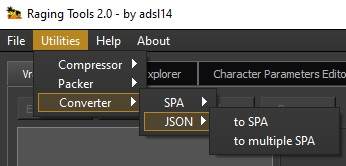
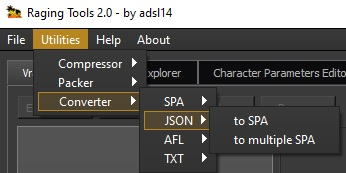
Added a new utility to convert AFL to TXT and vice-versa

diff --git a/Raging_Tools.py b/Raging_Tools.py
@@ -22,7 +22,7 @@ from lib.gsc_explorer import GSCEF
 from lib.gsc_explorer.GSCEV import GSCEV
 from lib.gsc_explorer.functions.signal_methods import store_parameters_gsc_explorer
 from lib.packages import os, rmtree, QFileDialog, QMessageBox, stat, shutil, datetime, natsorted, webbrowser
-from lib.functions import del_rw, read_spa_file, write_json_bone_file, read_json_bone_file, write_spa_file, show_progress_value, compare_version
+from lib.functions import del_rw, read_spa_file, write_json_bone_file, read_json_bone_file, write_spa_file, show_progress_value, compare_version, convert_afl_to_txt_file, convert_txt_to_afl_file
 # vram explorer
 from lib.vram_explorer.VEV import VEV
 from lib.vram_explorer import VEF
@@ -115,6 +115,34 @@ class WorkerMainWindow(QObject):
         # Finish the thread
         self.finished.emit()
 
+    def convert_AFL_to_TXT(self):
+
+        # Show text
+        self.progressText.emit("Converting " + os.path.basename(self.path_file))
+
+        # Create the new output
+        output_path = os.path.join(os.path.dirname(self.path_output_file), os.path.basename(self.path_file).split(".")[0] + "." + "txt")
+
+        # Read afl and write each entry in the txt file
+        convert_afl_to_txt_file(self, self.path_file, output_path, self.end_progress)
+
+        # Finish the thread
+        self.finished.emit()
+
+    def convert_TXT_to_AFL(self):
+
+        # Show text
+        self.progressText.emit("Converting " + os.path.basename(self.path_file))
+
+        # Create the new output
+        output_path = os.path.join(os.path.dirname(self.path_output_file), os.path.basename(self.path_file).split(".")[0] + "." + "afl")
+
+        # Read afl and write each entry in the txt file
+        convert_txt_to_afl_file(self, self.path_file, output_path, self.end_progress)
+
+        # Finish the thread
+        self.finished.emit()
+
     def convert_multiple_SPA_to_multiple_JSON(self):
 
         path_files = os.listdir(self.folder_path)
@@ -138,6 +166,32 @@ class WorkerMainWindow(QObject):
             self.path_file = os.path.join(self.folder_path, path_files[i])
             self.path_output_file = os.path.join(self.folder_output_path, path_files[i])
             self.convert_JSON_to_SPA()
+
+        self.finished.emit()
+
+    def convert_multiple_AFL_to_multiple_TXT(self):
+
+        path_files = os.listdir(self.folder_path)
+        total_files = len(path_files)
+        sub_step_progress = self.end_progress / total_files
+        self.end_progress = sub_step_progress
+        for i in range(0, total_files):
+            self.path_file = os.path.join(self.folder_path, path_files[i])
+            self.path_output_file = os.path.join(self.folder_output_path, path_files[i])
+            self.convert_AFL_to_TXT()
+
+        self.finished.emit()
+
+    def convert_multiple_TXT_to_multiple_AFL(self):
+
+        path_files = os.listdir(self.folder_path)
+        total_files = len(path_files)
+        sub_step_progress = self.end_progress / total_files
+        self.end_progress = sub_step_progress
+        for i in range(0, total_files):
+            self.path_file = os.path.join(self.folder_path, path_files[i])
+            self.path_output_file = os.path.join(self.folder_output_path, path_files[i])
+            self.convert_TXT_to_AFL()
 
         self.finished.emit()
 
@@ -312,8 +366,12 @@ class MainWindow(QtWidgets.QMainWindow, Ui_MainWindow):
         # Converter
         self.actionto_JSON.triggered.connect(self.action_SPA_to_JSON_logic)
         self.actionto_SPA.triggered.connect(self.action_JSON_to_SPA_logic)
+        self.actionto_TXT.triggered.connect(self.action_AFL_to_TXT_logic)
+        self.actionto_AFL.triggered.connect(self.action_TXT_to_AFL_logic)
         self.actionto_multiple_JSON.triggered.connect(self.action_multiple_SPA_to_multiple_JSON_logic)
         self.actionto_multiple_SPA.triggered.connect(self.action_multiple_JSON_to_multiple_SPA_logic)
+        self.actionto_multiple_TXT.triggered.connect(self.action_multiple_AFL_to_multiple_TXT_logic)
+        self.actionto_multiple_AFL.triggered.connect(self.action_multiple_TXT_to_multiple_AFL_logic)
         # Packer
         self.actionSingle_pack.triggered.connect(self.action_single_pack_logic)
         self.actionAll_pack.triggered.connect(self.action_multiple_pack_logic)
@@ -1081,6 +1139,74 @@ class MainWindow(QtWidgets.QMainWindow, Ui_MainWindow):
             # Reset progressbar
             self.reset_progress_bar()
 
+    def action_AFL_to_TXT_logic(self):
+
+        # Open the file
+        path_file = QFileDialog.getOpenFileName(self, "Open afl file", MainWindow.old_path_file, "afl file (*.afl)")[0]
+
+        if os.path.exists(path_file):
+
+            # Save the path_file to our aux var old_path_file
+            MainWindow.old_path_file = path_file
+
+            # Step 2: Create a QThread object
+            self.thread = QThread()
+            # Step 3: Create a worker object
+            self.worker = WorkerMainWindow()
+            # Step 4: Move worker to the thread
+            self.worker.moveToThread(self.thread)
+            # Step 5: Connect signals and slots
+            self.worker.path_file = path_file
+            self.worker.path_output_file = path_file
+            self.worker.start_progress = 0.0
+            self.worker.end_progress = 100.0
+            self.thread.started.connect(self.worker.convert_AFL_to_TXT)
+            self.worker.finished.connect(self.thread.quit)
+            self.worker.finished.connect(self.worker.deleteLater)
+            self.thread.finished.connect(self.thread.deleteLater)
+            self.worker.progressValue.connect(self.report_progress_value)
+            self.worker.progressText.connect(self.report_progress_text)
+            # Step 6: Start the thread
+            self.progressBarWindow.show()
+            self.thread.start()
+
+            # Reset progressbar
+            self.reset_progress_bar()
+
+    def action_TXT_to_AFL_logic(self):
+
+        # Open the file
+        path_file = QFileDialog.getOpenFileName(self, "Open txt file", MainWindow.old_path_file, "text file (*.txt)")[0]
+
+        if os.path.exists(path_file):
+
+            # Save the path_file to our aux var old_path_file
+            MainWindow.old_path_file = path_file
+
+            # Step 2: Create a QThread object
+            self.thread = QThread()
+            # Step 3: Create a worker object
+            self.worker = WorkerMainWindow()
+            # Step 4: Move worker to the thread
+            self.worker.moveToThread(self.thread)
+            # Step 5: Connect signals and slots
+            self.worker.path_file = path_file
+            self.worker.path_output_file = path_file
+            self.worker.start_progress = 0.0
+            self.worker.end_progress = 100.0
+            self.thread.started.connect(self.worker.convert_TXT_to_AFL)
+            self.worker.finished.connect(self.thread.quit)
+            self.worker.finished.connect(self.worker.deleteLater)
+            self.thread.finished.connect(self.thread.deleteLater)
+            self.worker.progressValue.connect(self.report_progress_value)
+            self.worker.progressText.connect(self.report_progress_text)
+            # Step 6: Start the thread
+            self.progressBarWindow.show()
+            self.thread.start()
+
+            # Reset progressbar
+            self.reset_progress_bar()
+
     def action_multiple_SPA_to_multiple_JSON_logic(self):
 
         # Ask the user from where to import the files into the tool
@@ -1144,6 +1270,80 @@ class MainWindow(QtWidgets.QMainWindow, Ui_MainWindow):
             self.worker.start_progress = 0.0
             self.worker.end_progress = 100.0
             self.thread.started.connect(self.worker.convert_multiple_JSON_to_multiple_SPA)
+            self.worker.finished.connect(self.thread.quit)
+            self.worker.finished.connect(self.worker.deleteLater)
+            self.thread.finished.connect(self.thread.deleteLater)
+            self.worker.progressValue.connect(self.report_progress_value)
+            self.worker.progressText.connect(self.report_progress_text)
+            # Step 6: Start the thread
+            self.progressBarWindow.show()
+            self.thread.start()
+
+            # Reset progressbar
+            self.reset_progress_bar()
+
+    def action_multiple_AFL_to_multiple_TXT_logic(self):
+
+        # Ask the user from where to import the files into the tool
+        folder_import_path = QFileDialog.getExistingDirectory(self, "Folder where afl files are located")
+
+        if folder_import_path:
+
+            # Create output folder
+            folder_output_path = folder_import_path + "_" + "txt"
+            # If exists, we remove everything inside and create the folder again
+            if os.path.exists(folder_output_path):
+                shutil.rmtree(folder_output_path)
+            os.mkdir(folder_output_path)
+            # Step 2: Create a QThread object
+            self.thread = QThread()
+            # Step 3: Create a worker object
+            self.worker = WorkerMainWindow()
+            # Step 4: Move worker to the thread
+            self.worker.moveToThread(self.thread)
+            # Step 5: Connect signals and slots
+            self.worker.folder_path = folder_import_path
+            self.worker.folder_output_path = folder_output_path
+            self.worker.start_progress = 0.0
+            self.worker.end_progress = 100.0
+            self.thread.started.connect(self.worker.convert_multiple_AFL_to_multiple_TXT)
+            self.worker.finished.connect(self.thread.quit)
+            self.worker.finished.connect(self.worker.deleteLater)
+            self.thread.finished.connect(self.thread.deleteLater)
+            self.worker.progressValue.connect(self.report_progress_value)
+            self.worker.progressText.connect(self.report_progress_text)
+            # Step 6: Start the thread
+            self.progressBarWindow.show()
+            self.thread.start()
+
+            # Reset progressbar
+            self.reset_progress_bar()
+
+    def action_multiple_TXT_to_multiple_AFL_logic(self):
+
+        # Ask the user from where to import the files into the tool
+        folder_import_path = QFileDialog.getExistingDirectory(self, "Folder where txt files are located")
+
+        if folder_import_path:
+
+            # Create output folder
+            folder_output_path = folder_import_path + "_" + "afl"
+            # If exists, we remove everything inside and create the folder again
+            if os.path.exists(folder_output_path):
+                shutil.rmtree(folder_output_path)
+            os.mkdir(folder_output_path)
+            # Step 2: Create a QThread object
+            self.thread = QThread()
+            # Step 3: Create a worker object
+            self.worker = WorkerMainWindow()
+            # Step 4: Move worker to the thread
+            self.worker.moveToThread(self.thread)
+            # Step 5: Connect signals and slots
+            self.worker.folder_path = folder_import_path
+            self.worker.folder_output_path = folder_output_path
+            self.worker.start_progress = 0.0
+            self.worker.end_progress = 100.0
+            self.thread.started.connect(self.worker.convert_multiple_TXT_to_multiple_AFL)
             self.worker.finished.connect(self.thread.quit)
             self.worker.finished.connect(self.worker.deleteLater)
             self.thread.finished.connect(self.thread.deleteLater)

diff --git a/lib/design/Raging_Tools/Raging_Tools.py b/lib/design/Raging_Tools/Raging_Tools.py
@@ -3173,6 +3173,10 @@ class Ui_MainWindow(object):
         self.menuSPA.setObjectName("menuSPA")
         self.menuJSON = QtWidgets.QMenu(self.menuConverter)
         self.menuJSON.setObjectName("menuJSON")
+        self.menuAFL = QtWidgets.QMenu(self.menuConverter)
+        self.menuAFL.setObjectName("menuAFL")
+        self.menuTXT = QtWidgets.QMenu(self.menuConverter)
+        self.menuTXT.setObjectName("menuTXT")
         self.menuPacker = QtWidgets.QMenu(self.menuUtilities)
         self.menuPacker.setObjectName("menuPacker")
         self.menuUnpack = QtWidgets.QMenu(self.menuPacker)
@@ -3234,6 +3238,14 @@ class Ui_MainWindow(object):
         self.actionGSC_RB1_functions.setObjectName("actionGSC_RB1_functions")
         self.actionCheck_for_updates = QtWidgets.QAction(MainWindow)
         self.actionCheck_for_updates.setObjectName("actionCheck_for_updates")
+        self.actionto_TXT = QtWidgets.QAction(MainWindow)
+        self.actionto_TXT.setObjectName("actionto_TXT")
+        self.actionto_multiple_TXT = QtWidgets.QAction(MainWindow)
+        self.actionto_multiple_TXT.setObjectName("actionto_multiple_TXT")
+        self.actionto_AFL = QtWidgets.QAction(MainWindow)
+        self.actionto_AFL.setObjectName("actionto_AFL")
+        self.actionto_multiple_AFL = QtWidgets.QAction(MainWindow)
+        self.actionto_multiple_AFL.setObjectName("actionto_multiple_AFL")
         self.menuFIle.addAction(self.actionOpen)
         self.menuFIle.addAction(self.actionSave)
         self.menuFIle.addSeparator()
@@ -3245,8 +3257,14 @@ class Ui_MainWindow(object):
         self.menuSPA.addAction(self.actionto_multiple_JSON)
         self.menuJSON.addAction(self.actionto_SPA)
         self.menuJSON.addAction(self.actionto_multiple_SPA)
+        self.menuAFL.addAction(self.actionto_TXT)
+        self.menuAFL.addAction(self.actionto_multiple_TXT)
+        self.menuTXT.addAction(self.actionto_AFL)
+        self.menuTXT.addAction(self.actionto_multiple_AFL)
         self.menuConverter.addAction(self.menuSPA.menuAction())
         self.menuConverter.addAction(self.menuJSON.menuAction())
+        self.menuConverter.addAction(self.menuAFL.menuAction())
+        self.menuConverter.addAction(self.menuTXT.menuAction())
         self.menuUnpack.addAction(self.actionSingle_unpack)
         self.menuUnpack.addAction(self.actionAll_unpack)
         self.menuPack.addAction(self.actionSingle_pack)
@@ -3869,6 +3887,8 @@ class Ui_MainWindow(object):
         self.menuConverter.setTitle(_translate("MainWindow", "Converter"))
         self.menuSPA.setTitle(_translate("MainWindow", "SPA"))
         self.menuJSON.setTitle(_translate("MainWindow", "JSON"))
+        self.menuAFL.setTitle(_translate("MainWindow", "AFL"))
+        self.menuTXT.setTitle(_translate("MainWindow", "TXT"))
         self.menuPacker.setTitle(_translate("MainWindow", "Packer"))
         self.menuUnpack.setTitle(_translate("MainWindow", "Unpack"))
         self.menuPack.setTitle(_translate("MainWindow", "Pack"))
@@ -3901,6 +3921,10 @@ class Ui_MainWindow(object):
         self.actionTexturesSpec.setText(_translate("MainWindow", "Textures spec"))
         self.actionGSC_RB1_functions.setText(_translate("MainWindow", "RB1 GSC breakdown"))
         self.actionCheck_for_updates.setText(_translate("MainWindow", "Check for updates"))
+        self.actionto_TXT.setText(_translate("MainWindow", "to TXT"))
+        self.actionto_multiple_TXT.setText(_translate("MainWindow", "to multiple TXT"))
+        self.actionto_AFL.setText(_translate("MainWindow", "to AFL"))
+        self.actionto_multiple_AFL.setText(_translate("MainWindow", "to multiple AFL"))
 
 
 if __name__ == "__main__":

diff --git a/lib/functions.py b/lib/functions.py
@@ -326,6 +326,71 @@ def read_spa_file(spa_path):
     return spa_file
 
 
+def convert_afl_to_txt_file(worker, afl_path, txt_path, step_progress):
+
+    # Read the data of the afl
+    with open(afl_path, mode="rb") as file:
+        # Move to the point where the number of entries are located
+        file.seek(12, os.SEEK_CUR)
+        num_entries = int.from_bytes(file.read(4), "little")
+
+        # Calculate the sub progress by using the number of entries
+        sub_step_progress = step_progress / num_entries
+
+        # Write each name in the txt file
+        with open(txt_path, mode="w") as output_file:
+
+            # Get each name
+            for i in range(0, num_entries):
+                entry_name = file.read(32).replace(b'\x00', b'').decode('utf-8')
+
+                # Write the entry name in the txt file
+                output_file.write(entry_name + "\n")
+
+                # Show progress
+                show_progress_value(worker, sub_step_progress)
+
+
+def convert_txt_to_afl_file(worker, txt_path, afl_path, step_progress):
+
+    # Read the data of the txt
+    with open(txt_path, mode="r") as file:
+        # Get number of entries
+        num_entries = sum(1 for _ in file)
+
+        # Calculate the sub progress by using the number of entries
+        sub_step_progress = step_progress / num_entries
+
+        # Write each name in the txt file
+        file.seek(0)
+        header = b'AFL\x00' + b'\x01\x00\x00\x00' + b'\xFF\xFF\xFF\xFF' + num_entries.to_bytes(4, 'little')
+        data = b''
+        with open(afl_path, mode="wb") as output_file:
+
+            # Get each name
+            for i in range(0, num_entries):
+                entry_name = file.readline().replace("\n", "").encode('utf-8')
+
+                # The max number of char for the name is 32, but since some tools crashes when there is a char in position 32, instead we'll replace the last char as \x00.
+                # If the name entry is greater than 32, we will cut from the end to the start of the string, until we reach a number of 31 chars (we will give preference to the extension of the name)
+                name_size = len(entry_name)
+                if name_size > 31:
+                    entry_name = entry_name[name_size - 31:]
+                    name_size = 31
+
+                difference = 32 - name_size
+                for j in range(0, difference):
+                    entry_name = entry_name + b'\00'
+
+                # Write the entry name in the afl file
+                data = data + entry_name
+
+                # Show progress
+                show_progress_value(worker, sub_step_progress)
+
+            # Write output
+            output_file.write(header + data)
+
 def write_spa_file(spa_file):
 
     header_data = b''

diff --git a/README.md b/README.md
@@ -123,14 +123,17 @@ Like the previous task, you can unpack or pack, a file or folder respectively, a
 
 ### Converter
 
-In this tab, you can convert the files to another format. The options are <i>SPA</i> and <i>JSON</i>
+In this tab, you can convert the files to another format. The options are <i>SPA</i>, <i>JSON</i>, 
+<i>AFL</i> and <i>TXT</i>
 
 You can convert a single <i>SPA</i> to a <JSON> file, or select a folder with some <i>SPA</i> files
 and convert all of them, to the <i>JSON</i> format. The same goes if you want to convert from <i>JSON</i>
-to <i>SPA</i>
+to <i>SPA</i>, or from <i>AFL</i> to <i>TXT</i> and vice-versa.
 
-<img src="images/utilities_tab_converter_spa.jpg" alt="utilities_tab_converter_spa" width="40%">
+<img src="images/utilities_tab_converter_spa.jpg" alt="utilities_tab_converter_spa" width="35.4%">
 <img src="images/utilities_tab_converter_json.jpg" alt="utilities_tab_converter_json" width="34.8%">
+<img src="images/utilities_tab_converter_afl.jpg" alt="utilities_tab_converter_afl" width="35.8%">
+<img src="images/utilities_tab_converter_txt.jpg" alt="utilities_tab_converter_txt" width="34.5%">
 
 ## Help
 
